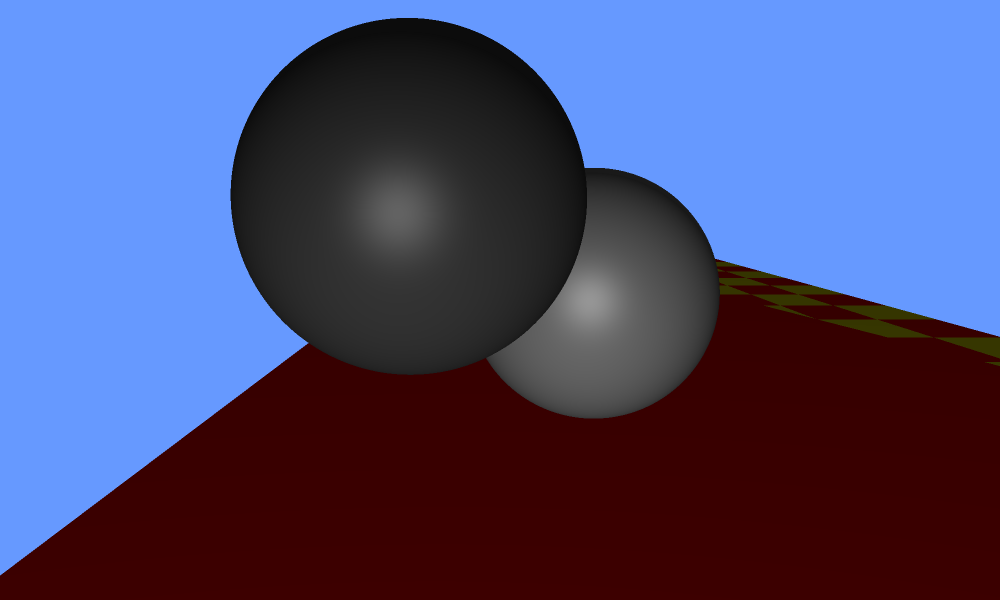
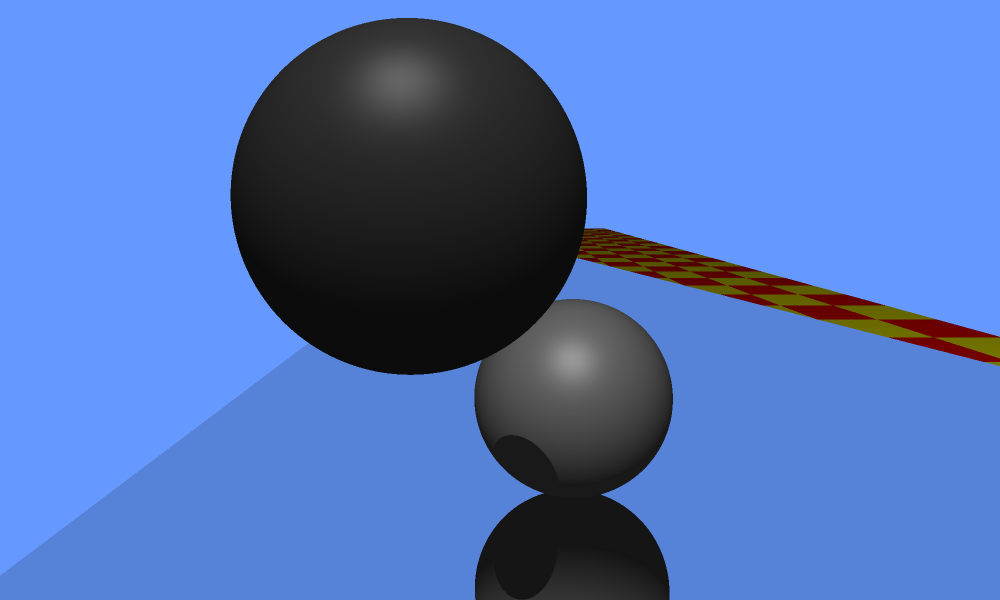
View ray instead of light rays.

diff --git a/raytracer/src/world/camera.rs b/raytracer/src/world/camera.rs
@@ -152,21 +152,19 @@ impl Camera {
             let kr = int.object.get_kr();
             let kt = int.object.get_kt();
 
-            for light in &world.lights {
-                let s_i = (light.position - int.intersection_point).normalize();
-                let angle = s_i.dot(int.normal);
+            let v_i = ray.direction;
+            let angle = v_i.dot(int.normal);
 
-                if kr > 0.0 {
-                    let reflected = s_i + 2.0 * angle / int.normal.length().powi(2) * int.normal;
-                    let offset = reflected.normalize() * 0.001;
-                    let refl_ray = Ray::new(int.intersection_point + offset, reflected.normalize());
+            if kr > 0.0 {
+                let reflected = v_i - 2.0 * angle / int.normal.length().powi(2) * int.normal;
+                let offset = reflected.normalize() * 0.001;
+                let refl_ray = Ray::new(int.intersection_point + offset, reflected.normalize());
 
-                    total_light += kr * self.illuminate(refl_ray, depth + 1, world, ill_model);
-                }
+                total_light += kr * self.illuminate(refl_ray, depth + 1, world, ill_model);
+            }
 
-                if kt > 0.0 {
-                    // not handling this yet
-                }
+            if kt > 0.0 {
+                // not handling this yet
             }
         }
 

diff --git a/raytracer/src/geometry/material.rs b/raytracer/src/geometry/material.rs
@@ -75,7 +75,7 @@ impl<'a> ProceduralMaterial<'a> {
             specular_color_func,
             kr,
             kt,
-            max_depth
+            max_depth,
         }
     }
 }
@@ -89,7 +89,7 @@ impl<'a> Material for ProceduralMaterial<'static> {
         (self.specular_color_func)(uv.unwrap())
     }
 
-     fn get_kr(&self) -> f32 {
+    fn get_kr(&self) -> f32 {
         self.kr
     }
 

diff --git a/raytracer/src/main.rs b/raytracer/src/main.rs
@@ -74,7 +74,7 @@ fn create_camera() -> Camera {
 fn create_lights() -> Vec<LightSource> {
     let mut lights = vec![];
 
-    let main_light_pos = Vec3::new(-1.0, 1.0, 10.0);
+    let main_light_pos = Vec3::new(-1.0, 20.0, 10.0);
     let main_light_radiance = Vec3::new(1.0, 1.0, 1.0);
     let main_light_ambient = Vec3::new(1.0, 1.0, 1.0);
 

diff --git a/raytracer/src/geometry/primitives/sphere.rs b/raytracer/src/geometry/primitives/sphere.rs
@@ -3,11 +3,7 @@ use std::f32::consts::PI;
 use glam::{Mat4, Vec2, Vec3, Vec4, Vec4Swizzles};
 
 use crate::{
-    geometry::{
-        intersection::Intersection,
-        material::{Material},
-        object::Object,
-    },
+    geometry::{intersection::Intersection, material::Material, object::Object},
     lighting::ray::Ray,
 };
 
